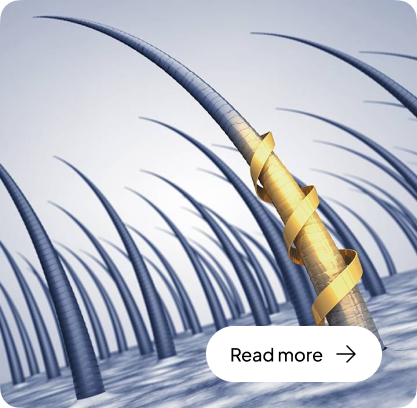
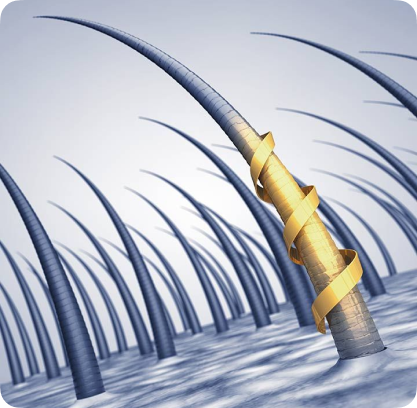
Commited

Changed region(s): [[0.4676, 0.7941, 0.9353, 0.9412]]

diff --git a/src/Pages/Blogs.jsx b/src/Pages/Blogs.jsx
@@ -27,6 +27,43 @@ const blogPosts = [
   },
 ]
 
+const CustomCard = ({ image, title, description, date, link }) => {
+  return (
+    <div className="max-w-sm bg-white rounded-lg shadow-md overflow-hidden">
+      {/* Image Section */}
+      <div className="relative">
+        <img
+          src={image}
+          alt={title}
+          className="w-[417px] h-[408px] object-cover"
+        />
+        {/* Overlapping Read More Button */}
+        <Link href={link}>
+          <button className="absolute bottom-4 right-4 bg-white text-black hover:bg-gray-100 shadow-lg border-0 rounded-full px-4 py-2 text-sm font-medium flex items-center">
+            Read more
+            <ArrowRight className="ml-2 h-4 w-4 transition-transform group-hover:translate-x-1" />
+          </button>
+        </Link>
+      </div>
+
+      {/* Text Section */}
+      <div className="p-4 text-center">
+        {/* Date below image */}
+        <p className="text-sm text-gray-500 mb-2">{date}</p>
+
+        {/* Title */}
+        <h2 className="text-xl font-semibold text-gray-900 mb-2">
+          {title}
+        </h2>
+
+        {/* Description */}
+        <p className="text-gray-600 leading-relaxed">
+          {description}
+        </p>
+      </div>
+    </div>
+  );
+};
 
 const Blogs = () => {
     return(
@@ -48,6 +85,15 @@ const Blogs = () => {
               Watch videos showcasing the remarkable results achieved by our skilled surgeons.
             </p>
         </div>
+        <div className=" grid grid-cols-1 md:grid-cols-2 lg:grid-cols-3 gap-5">
+            <CustomCard
+            image={haircare}
+            title="Beard Transplant"
+            description="2,000 Grafts | Donor Area: Back of scalp | Result Time: 8 Months"
+            date="April 10, 2024"
+            link="/blog/beard-transplant"
+            />
+        </div>
         <main className="max-w-6xl mx-auto px-6 py-16">
             <div className="space-y-12">
                 {/* Blog Cards Grid */}
@@ -55,7 +101,7 @@ const Blogs = () => {
                 {blogPosts.map((post) => (
                     <Card
                         key={post.id}
-                        className="overflow-hidden hover:shadow-lg transition-shadow duration-300 border-0" // ✅ removed border
+                        className="overflow-hidden hover:shadow-lg transition-shadow duration-300 border-0"
                         >
                         <div className="overflow-hidden relative group">
                             <img
